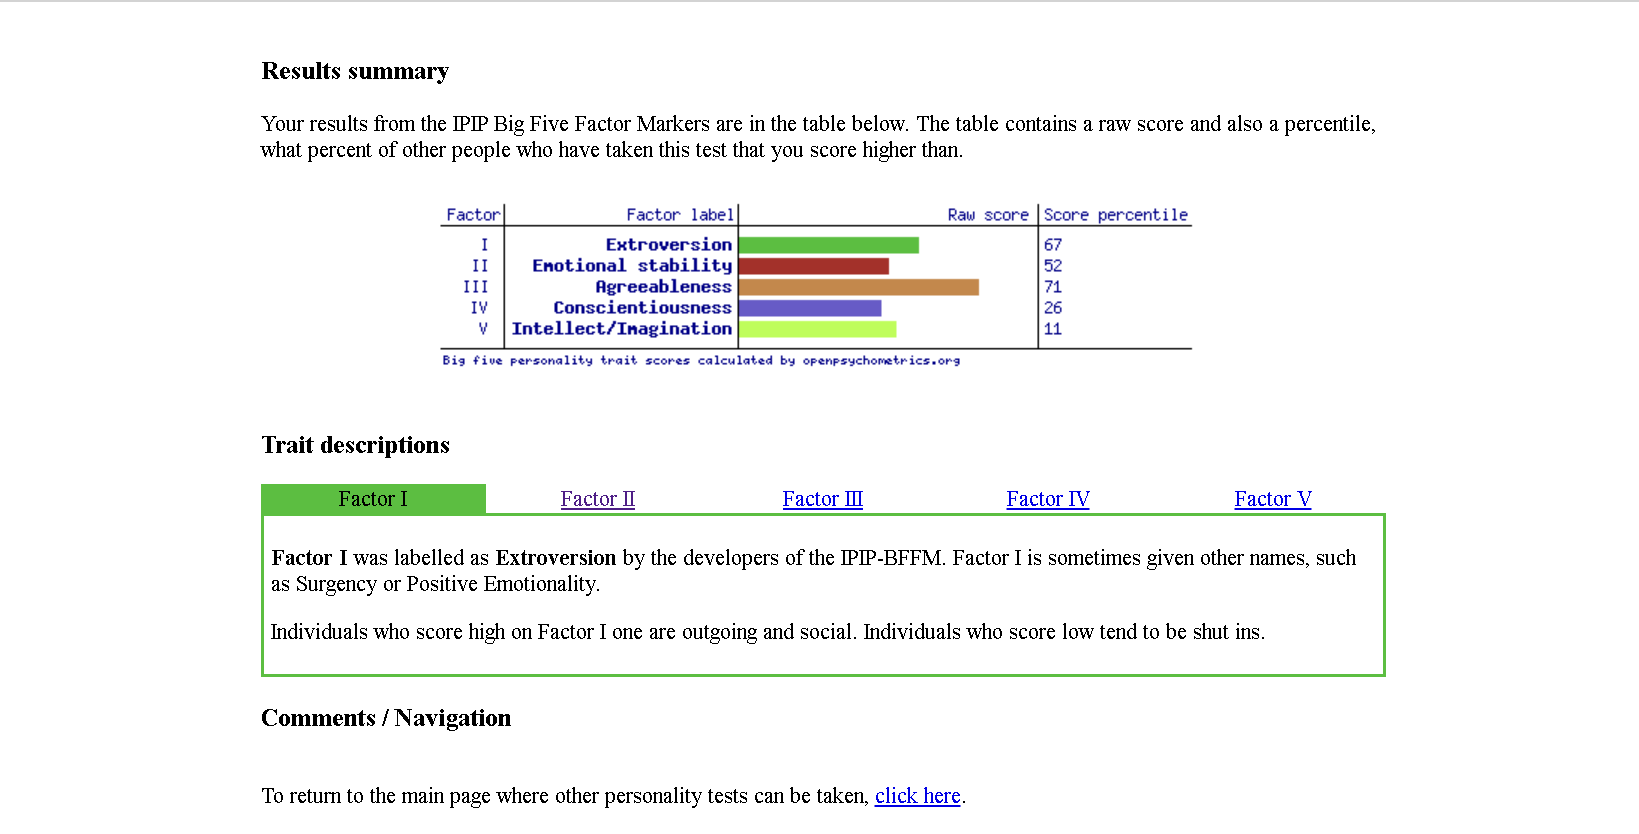
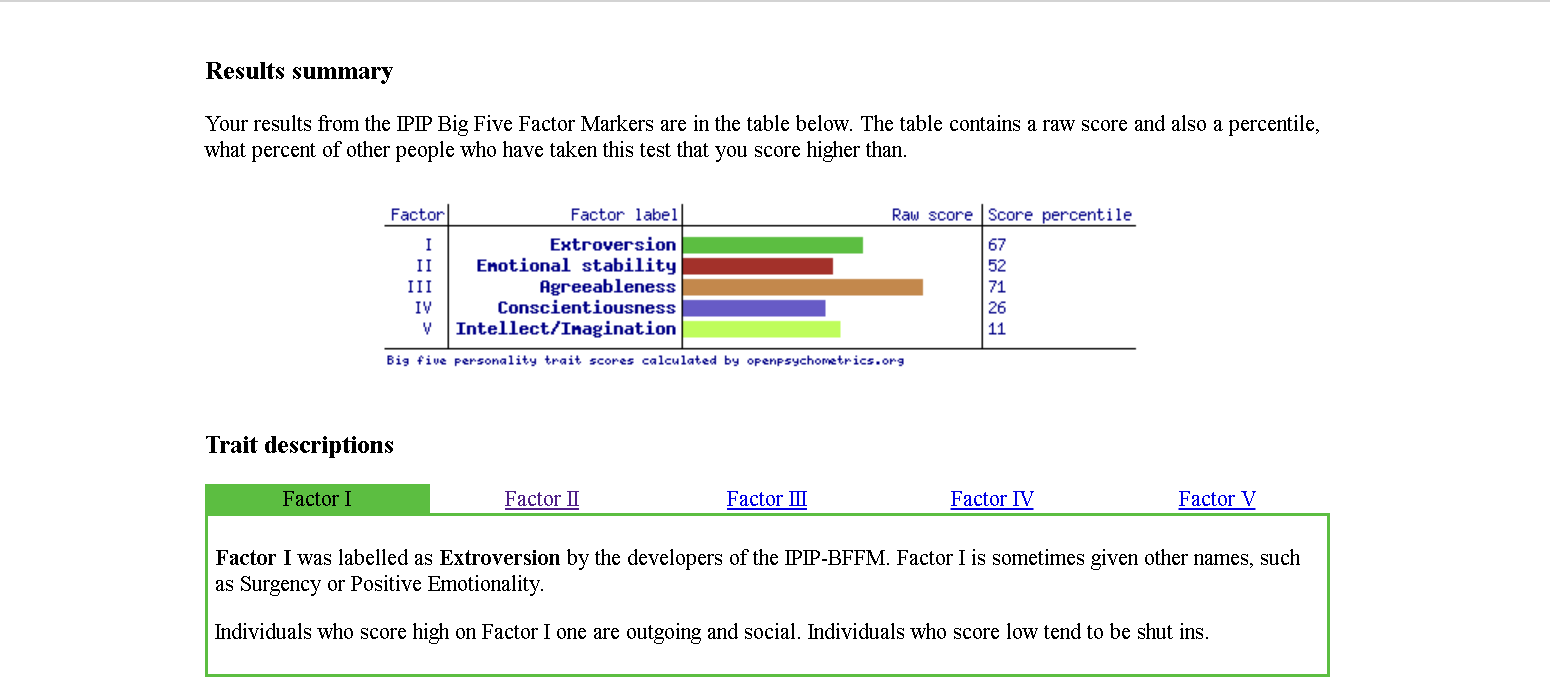
big five

Changed region(s): [[0.1239, 0.0602, 0.8361, 0.5415], [0.1239, 0.5716, 0.8671, 0.8725], [0.1239, 0.8725, 0.8671, 0.9928]]

diff --git a/index.html b/index.html
@@ -50,7 +50,7 @@
 <img src="images/learning_preferences.png" alt="learning preferences" style="width:800px;height:300px;">
 <h2>Learning Preferences</h2>
 <p>Auditory/visual learner remembering and processing things through hearing and seeing. Listening to a lecture,  hearing someone explanation directly, and providing a chart or picture to visualize can be really effective for them. However, this type of learner can be easily distracted by their surrounding.</p>
-<img src="images/big_five test.png" alt="big_five test" style="width:800px;height:500px;">
+<img src="images/big_five test.png" alt="big_five test" style="width:800px;height:400px;">
 <h2>Test 3</h2>
 
 
